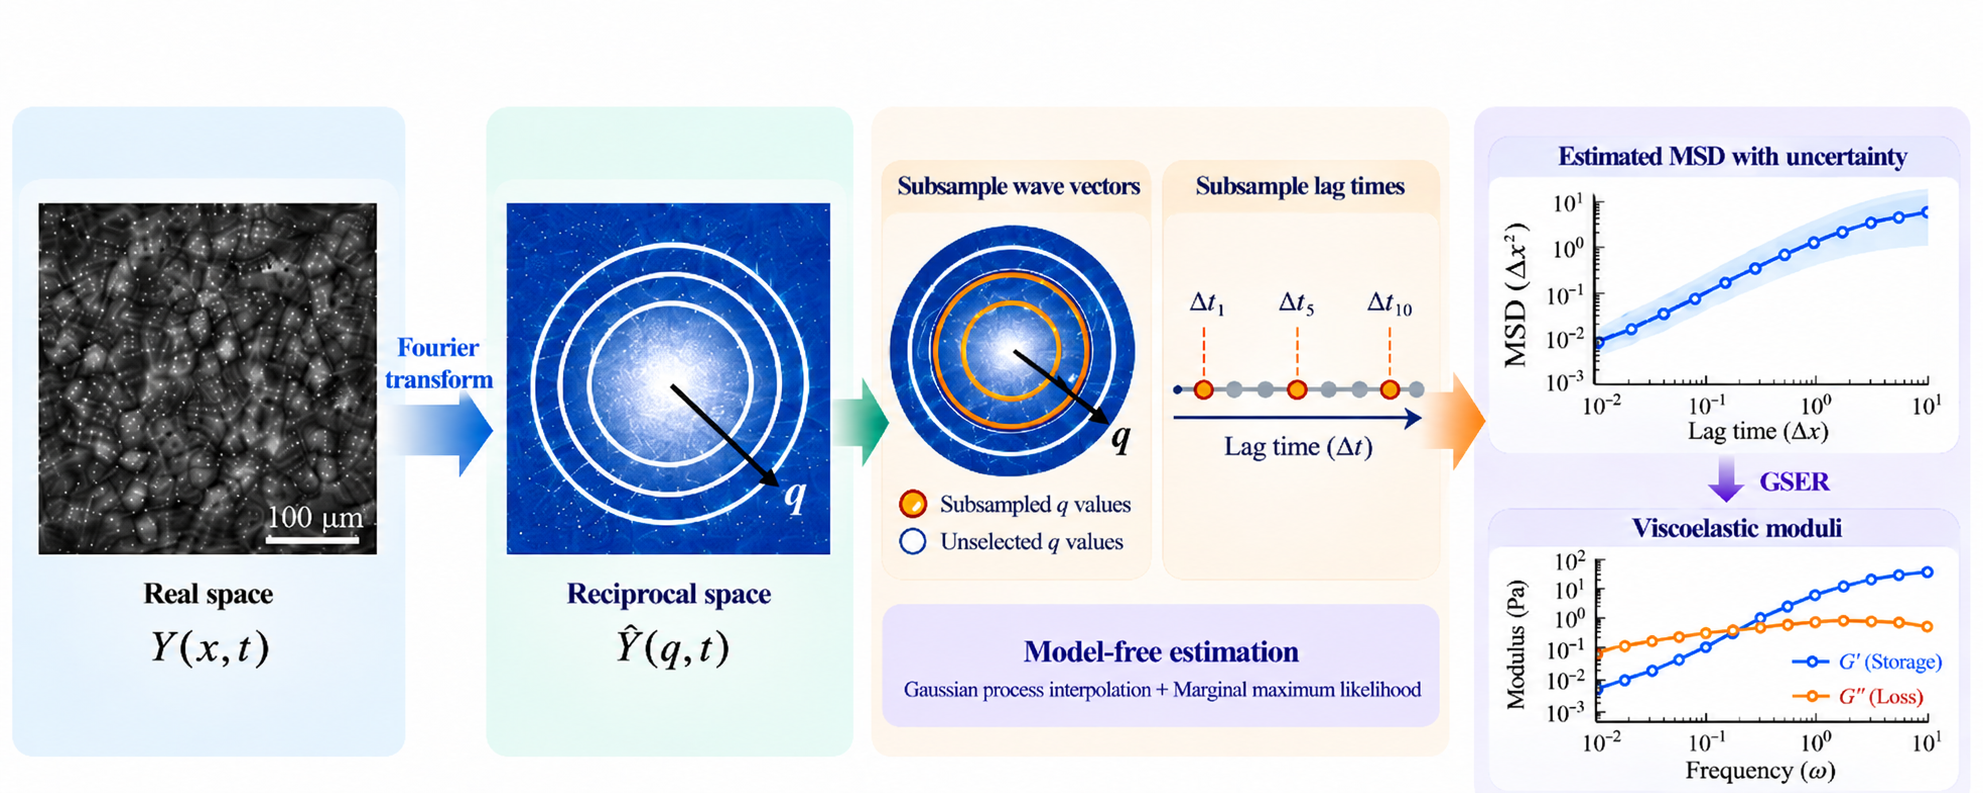
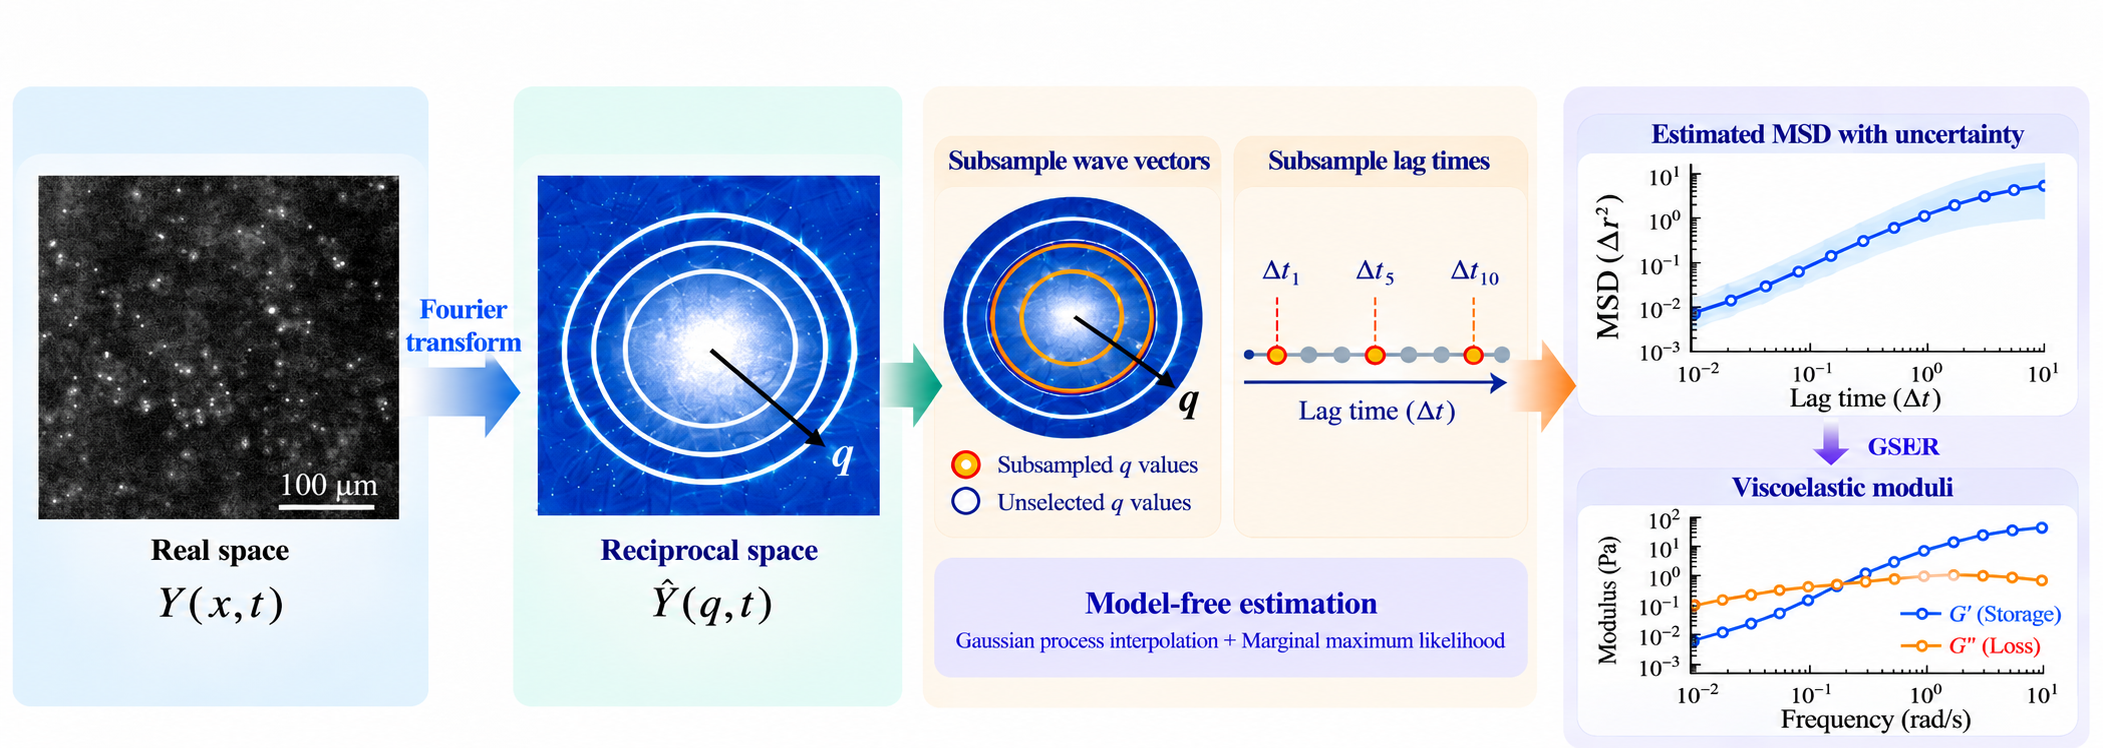
Update README and image

diff --git a/README.md b/README.md
@@ -1,4 +1,4 @@
-# Model-Free *Ab Initio* Uncertainty Quantification in Scattering analysis of Microscopy (MF-AIUQ)
+# MF-AIUQ: Model-Free *Ab Initio* Uncertainty Quantification in Scattering analysis of Microscopy
 
 
 [![R](https://img.shields.io/badge/R-276DC3?logo=r&logoColor=white)](https://www.r-project.org/)
